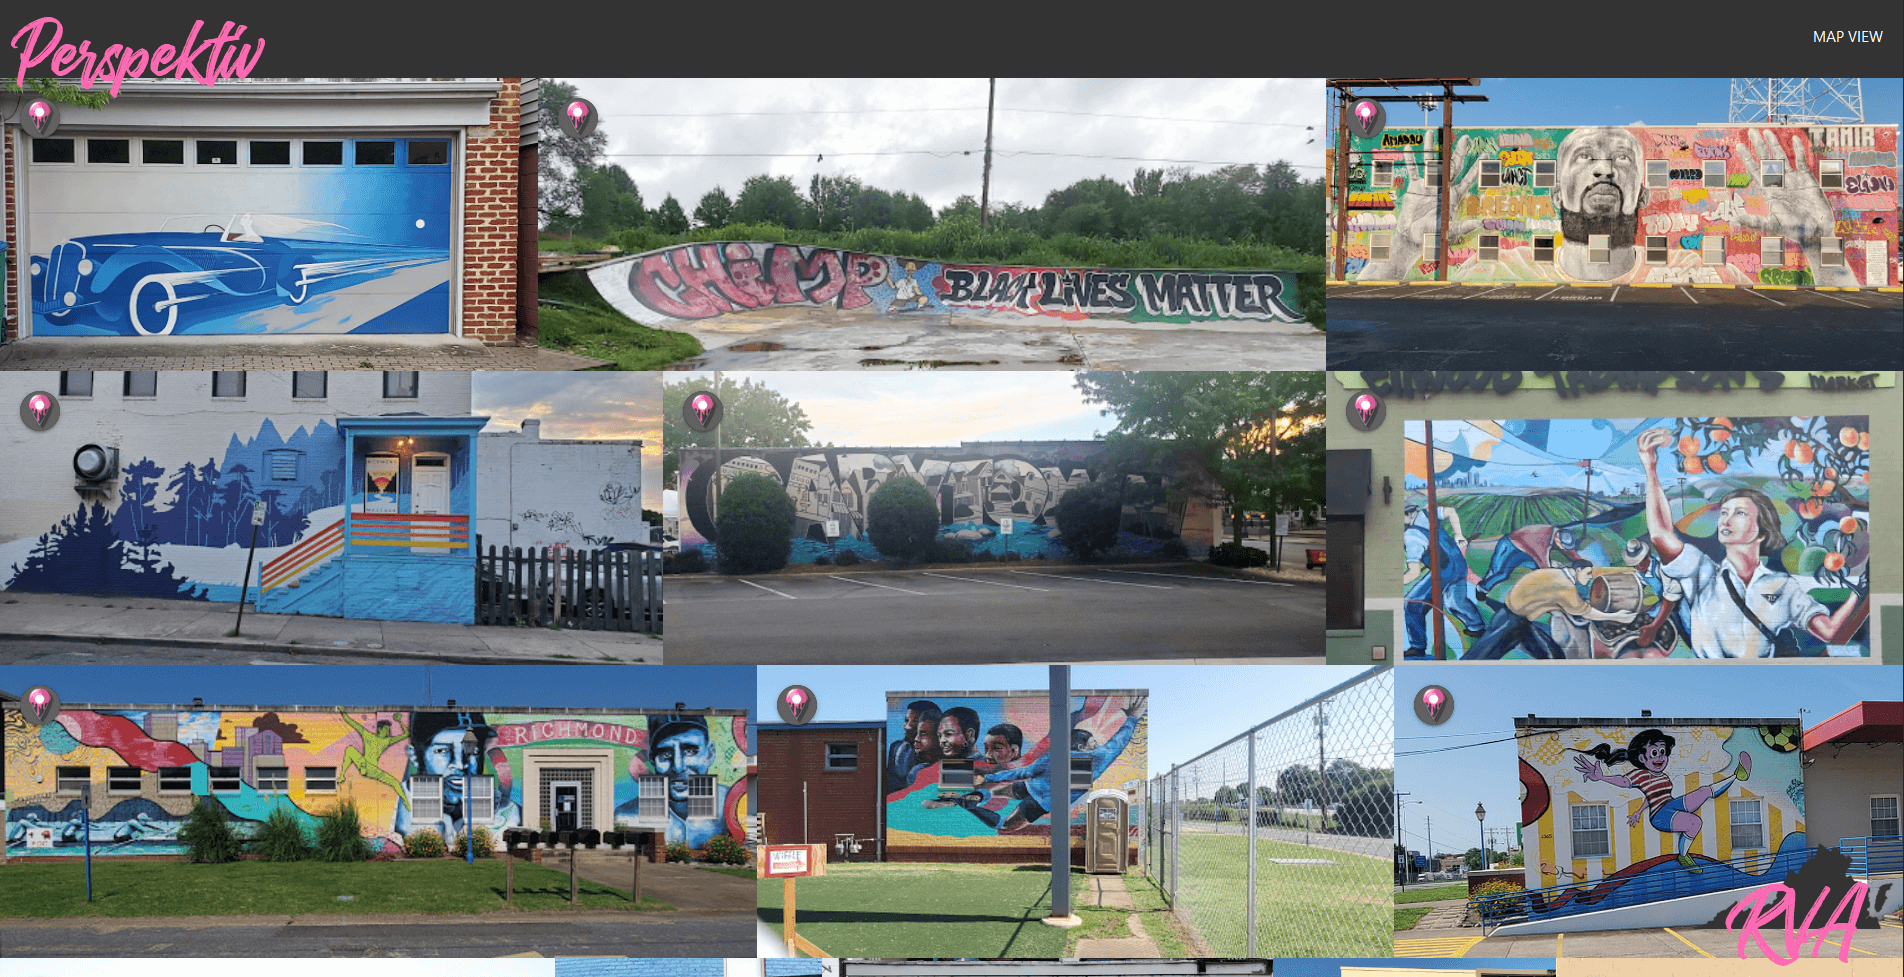
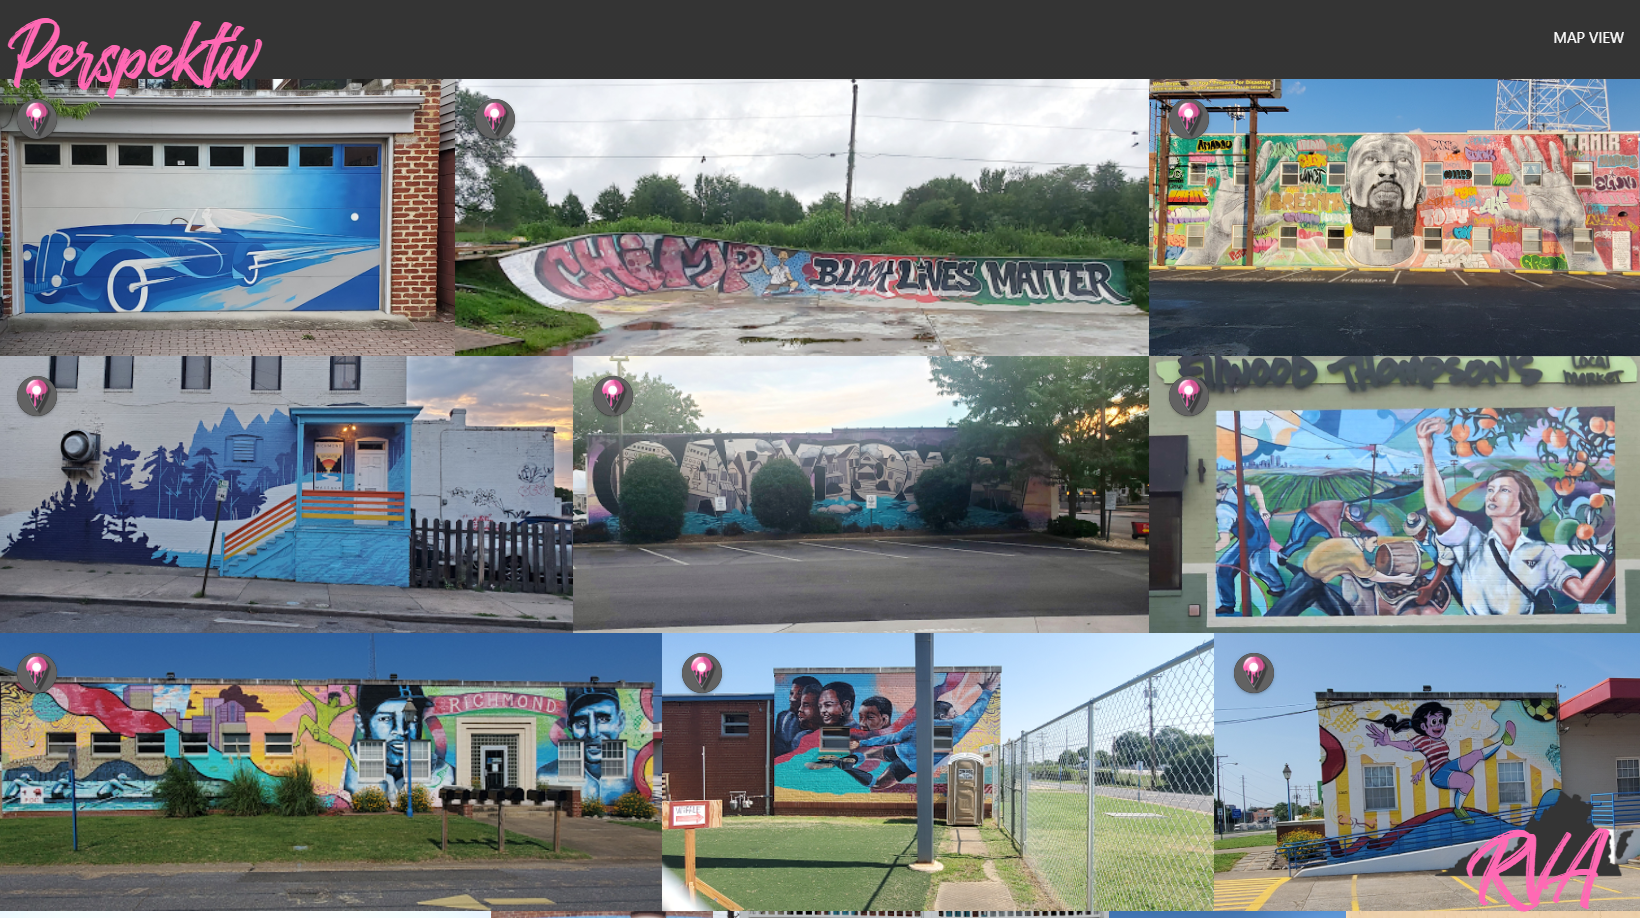
Portfolio formatted and animated

diff --git a/src/components/projects/ProjectImage.js b/src/components/projects/ProjectImage.js
@@ -1,35 +1,56 @@
 import React, { useState } from 'react';
-import Image from 'react-bootstrap/Image';
-import { AnimateSharedLayout } from 'framer-motion';
+import Card from 'react-bootstrap/Card';
+import ProjectDetail from './ProjectDetail';
+
 import { motion, AnimatePresence } from 'framer-motion';
 
-function ProjectImage({ name, image, description, repo, app }) {
-  const [selectedId, setSelectedId] = useState(null);
+const ProjectImage = ({ projName, image, description, repo, app }) => {
+  const [isOpen, setIsOpen] = useState(false);
+
+  const toggleOpen = () => setIsOpen(!isOpen);
+  console.log(isOpen);
 
   return (
-    <AnimateSharedLayout type='crossfade'>
-      <Image src={image} fluid />
-    </AnimateSharedLayout>
+    <motion.div
+      layout
+      onClick={toggleOpen}
+      className={isOpen ? 'expandedCard' : 'compactCard'}
+    >
+      <Card>
+        <Card.Img src={image} alt={projName} />
+        <AnimatePresence>
+          {isOpen && (
+            <Card.ImgOverlay
+              style={{
+                zIndex: 10,
+                backgroundColor: 'rgba(191, 178, 163, .75)',
+                display: 'flex',
+                justifyContent: 'center',
+                alignItems: 'center'
+              }}
+            >
+              <motion.div
+                initial={{ opacity: 0 }}
+                animate={{ opacity: 1 }}
+                exit={{ opacity: 0 }}
+                className='mediaQuery'
+                style={{
+                  width: '75%'
+                }}
+              >
+                <ProjectDetail
+                  name={projName}
+                  description={description}
+                  repo={repo}
+                  app={app}
+                />
+              </motion.div>
+            </Card.ImgOverlay>
+          )}
+        </AnimatePresence>
+      </Card>
+    </motion.div>
   );
-}
+};
 
 export default ProjectImage;
-
-<AnimateSharedLayout type='crossfade'>
-  {items.map(item => (
-    <motion.div layoutId={item.id} onClick={() => setSelectedId(item.id)}>
-      <motion.h5>{item.subtitle}</motion.h5>
-      <motion.h2>{item.title}</motion.h2>
-    </motion.div>
-  ))}
-
-  <AnimatePresence>
-    {selectedId && (
-      <motion.div layoutId={selectedIdentifier}>
-        <motion.h5>{item.subtitle}</motion.h5>
-        <motion.h2>{item.title}</motion.h2>
-        <motion.button onClick={() => setSelectedId(null)} />
-      </motion.div>
-    )}
-  </AnimatePresence>
-</AnimateSharedLayout>;

diff --git a/src/components/projects/Projects.js b/src/components/projects/Projects.js
@@ -1,24 +1,27 @@
 import React from 'react';
-import ProjectCard from './ProjectCard';
-// import ProjectImage from './ProjectImage';
+import ProjectImage from './ProjectImage';
 import projects from './projects.json';
-import Container from 'react-bootstrap/Container';
+
+import { AnimateSharedLayout } from 'framer-motion';
+
 
 const Projects = () => {
   return (
-    <Container fluid className='projectContainer'>
-      {projects.map(({ id, img, name, description, repo, app }) => (
-        <ProjectCard
-          key={id}
+    <AnimateSharedLayout>
+      {projects.map(({ id, img, projName, description, repo, app }, i) => (
+        <ProjectImage
+          layout
           image={img}
-          name={name}
+          name={projName}
           description={description}
           repo={repo}
           app={app}
+          key={id}
+          id={id}
+          layoutId='projects'
         />
       ))}
-    </Container>
+    </AnimateSharedLayout>
   );
 };
-
 export default Projects;

diff --git a/src/components/projects/ProjectDetail.js b/src/components/projects/ProjectDetail.js
@@ -1,0 +1,38 @@
+import React, { Fragment } from 'react';
+import Card from 'react-bootstrap/Card';
+import CardButton from './CardButton';
+
+const ProjectDetail = ({ projName, description, repo, app }) => {
+  return (
+    <div
+      style={{
+        backgroundColor: 'rgba(191, 178, 163, 1)',
+        borderRadius: '1rem',
+        padding: '2rem'
+      }}
+    >
+      <Card.Title
+        style={{
+          color: '#143840',
+
+          fontWeight: 'bold'
+        }}
+      >
+        {projName}
+      </Card.Title>
+      <Card.Text
+        style={{
+          color: '#143840',
+          fontWeight: 'bold'
+        }}
+      >
+        {description}
+      </Card.Text>
+
+      <CardButton text='See the Code' href={repo} />
+      <CardButton text='See it Live' href={app} />
+    </div>
+  );
+};
+
+export default ProjectDetail;

diff --git a/src/App.css b/src/App.css
@@ -19,12 +19,25 @@ body {
   justify-content: center;
   align-items: center;
   background-color: transparent !important;
+  height: 75%;
 }
 
-.projectContainer {
-  display: grid;
-  grid-gap: 1rem;
-  grid-template-columns: repeat(auto-fit, minmax(150px, 1fr));
+.compactCard {
+  display: inline-flex;
+  text-align: center;
+  width: 40%;
+  margin: 1%;
+  cursor: pointer;
+}
+
+.expandedCard {
+  display: inline-flex;
+  text-align: center;
+  height: auto;
+  width: 75%;
+  margin: 1%;
+  justify-content: center;
+  cursor: pointer;
 }
 
 .credits a {
@@ -43,4 +56,12 @@ body {
   justify-content: center;
   z-index: -1;
   background-color: rgba(67, 101, 115, 0.25);
+}
+
+/* Media Queries */
+@media only screen and (max-width: 600px) {
+  .mediaQuery {
+    width: 100% !important;
+    background-color: rgba(191, 178, 163, 1);
+  }
 }

diff --git a/src/App.js b/src/App.js
@@ -1,5 +1,4 @@
 import './App.css';
-import Container from 'react-bootstrap/Container';
 import React from 'react';
 import { BrowserRouter as Router, Switch, Route } from 'react-router-dom';
 import NavBar from './components/layout/NavBar';
@@ -11,12 +10,12 @@ function App() {
   return (
     <Router>
       <NavBar />
-      <Container>
-        <Switch>
-          <Route exact path='/' component={Home} />
-          <Route exact path='/portfolio' component={Portfolio} />
-        </Switch>
-      </Container>
+
+      <Switch>
+        <Route exact path='/' component={Home} />
+        <Route exact path='/portfolio' component={Portfolio} />
+      </Switch>
+
       <Footer />
     </Router>
   );

diff --git a/src/components/projects/CardButton.js b/src/components/projects/CardButton.js
@@ -1,0 +1,21 @@
+import React from 'react';
+import Button from 'react-bootstrap/Button';
+
+export const CardButton = ({ text, href }) => {
+  return (
+    <Button
+      style={{ margin: '2%', background: '#143840', borderColor: '#143840' }}
+    >
+      <a
+        href={href}
+        target='_blank'
+        rel='noreferrer noopener'
+        style={{ color: '#BFB2A3', fontWeight: 'bold' }}
+      >
+        {text}
+      </a>
+    </Button>
+  );
+};
+
+export default CardButton;

diff --git a/src/components/pages/Portfolio.js b/src/components/pages/Portfolio.js
@@ -1,11 +1,10 @@
 import React from 'react';
 import Projects from '../projects/Projects';
-
 import Jumbotron from 'react-bootstrap/Jumbotron';
 
 const Portfolio = () => (
   <Jumbotron className='jumbotron'>
-    <h1>Recent Projects</h1>
+    <h1 style={{ textAlign: 'Center' }}>Recent Projects</h1>
     <Projects />
   </Jumbotron>
 );
